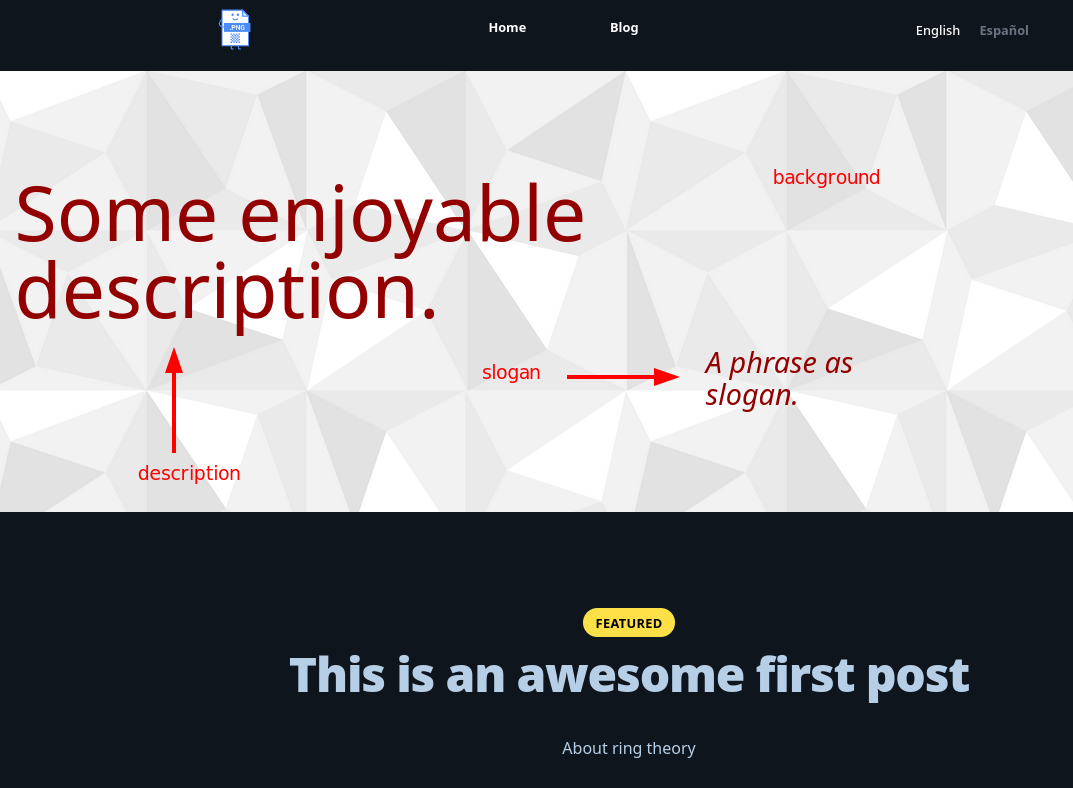
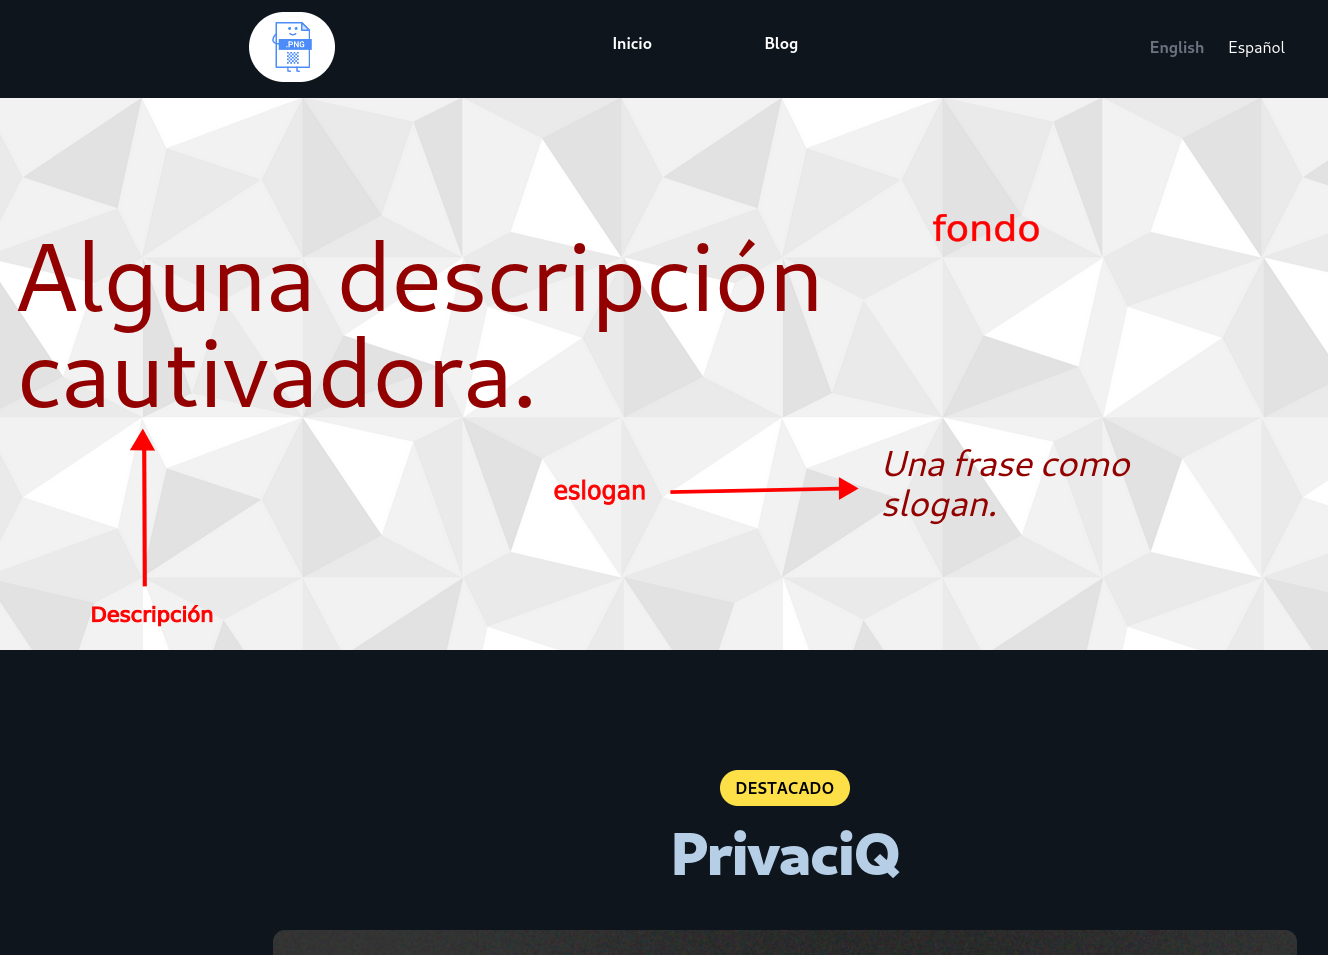
[CJ] - translated the README of the post template

diff --git a/DEV/README.md b/DEV/README.md
@@ -1,109 +1,107 @@
-# How to start with your Torified blog
+# Como empezar con el blog torificado
 
-The first thing to do with your new Torified blog is to add some custom configurations, but remember **DO NOT** put information that allows to identify to you. This template has the simplest content to do your blog completely anonymous, so you have to take care about what information you share on it.
+La primera cosa a hacer con su nuevo blog torificado es añadir algunas configuraciones, pero recuerde: **NO** ponga información que permitan identificarle. Esta plantilla tiene la configuración más simple para hacer a su blog completamente anónimo, así que tiene que tener cuidado con la información que comparte en este. 
 
-#### Warning
+## Advertencia
 
-For simplicity, we suggest to **ONLY** make changes on the folders and files we specify in these instructions.
+**Por simplicidad, sugerimos que sólo se hagan cambios en los directorios y archivos que especificamos en estas instrucciones.**
 
-## 1. Change logo
+**Advertencia: Tenga cuidado con el origen de la imagen que va a usar. En particular le recomendamos eliminar los metadatos de todos los archivos que suba al servidor**
+## 1. Cambiar logo
 
-To change the image logo you need to have an `.svg` file named `logo.svg` and stored in `/assets/images/`. Preferably this image must be a square image, if not it is going to  be deformed.
+Para cambiar el logo de la página se necesita tener un archivo en formato SVG llamado `logo.svg` que debe ser guardado en la carpeta `assets/images` del repositorio. Esta imagen debería ser cuadrada, pues de lo contrario se deformará al mostrarse.
 
-This change will modify the image that we show here.
+Este cambio va a modificar las imágenes que mostramos aquí:
 
-*Warning:*
-    please verify your logo is in SVG format.
+![Cambiar logo en el header](./images/change-logo-1.png)
 
-![Change logo](./images/change-logo.png)
+![Cambiar logo en el header](./images/change-logo-2.png)
 
-## 2. Change hero section in lading page
+## 2. Cambiar la sección *hero* en la página principal
 
-In order to change the hero section into the landing page, you have three elements that can be customized.
+En esta sección se pueden cambiar los siguientes elementos:
 
-1. **Description:** Go to the internationalization directory `_i18n` and find two files `en.yml` and `es.yml`. In each one of these, edit the tag `site.description` with your own description.
-
-2. **Slogan:** Go to the internationalization directory `_i18n` and find two files `en.yml` and `es.yml`. In each one of these, edit the tag `site.slogan` with your own slogan.
-
-Remember: do these two changes in both files to allow the page to show the text in both languages.
-
-3. **Background:** To change the background in the hero section, first you need have an image named `background-desktop.png` and replace with this the image with the same name into the directory `assets/images`.
-
-*Warning:*
-please verify your logo is format PNG, if it is JPG you can rename it as .png
+1. **Descripción:** Diríjase a `_i18n` que es el directorio de internacionalización, y encuentre los archivos `en.yml` y `es.yml`. En cada uno edite la etiqueta `site.description` con su propia descripción.
 
 
-![Change logo](./images/change-hero.png)
+2. **Eslogan:** Diríjase a `_i18n` que es el directorio de internacionalización, y encuentre los archivos `en.yml` y `es.yml`. En cada uno edite la etiqueta `site.slogan` con su propio eslogan.
 
-## 3. Change footer content
+**Recuerde: haga estos dos cambios en ambos archivos para que los cambios se vean reflejados en los dos idiomas**
 
-You can show your email and the corresponding GPG fingerprint (if you have them and you want to share them).
+3. **Imagen de fondo:** para cambiar el fondo de esta sección, primero necesita tener una imagen con el nombre `background-desktop.png` y copiela al directorio `assets/images`.
 
-#### Warning
-
-Be sure that the email you share is secure and anonymous. Use a service like [Riseup](https://riseup.net/) and similar.
-
-1. **Email:** Go to `_data/` directory and find the file `locations.yml`. In this file change the `name` under `- location: Email address` with your secure mail.
-
-2. **GPG fingerprint:** Go to `_data/` directory and find the file `locations.yml`. In this file change the `name` under `- location: GPG fingerprint` with the fingerprint.
-
-#### Note
-If you do not have a fingerprint delete the section `- location: GPG fingerprint`.
-
-# 4. Add posts to your blog
-
-When you have wroten a new post (in english or spanish) and you want to upload images, 
-you can use the template `post_template.md` in `/DEV` directory to do new posts.
+**Advertencia: La imagen seleccionada debe estar en formato PNG. En caso de que la imagen esté en formato JPG puede cambiar la extensión del archivo a `.png`.**
 
 
-If you want to do spanish and english versions of your post, the two files **must have the same file name** but each one must be stored in their respective directory. 
+![Cambio de la sección hero](./images/change-hero.png)
+
+## 3. Cambiar el contenido del *footer*
+
+Puede mostrar su dirección de correo electrónico y su correspondiente [*fingerprint* GPG](https://es.wikipedia.org/wiki/Huella_digital_de_clave_p%C3%BAblica#Creando_huellas_digitales_de_clave_p%C3%BAblica) (si los tiene y los desea compartir).
+
+**Advertencia: Asegurese de que el servicio de correo que usa es seguro y anónimo. Use un servicio como [Riseup](https://riseup.net/) y similares.**
+
+1. **Dirección de correo:** Diríjase al directorio `_data/` y encuentre el archivo `locations.yml`. En este archivo cambie el campo `name` bajo la línea `- location: email address` con la dirección de correo deseada.
+
+2. ***Fingerprint* GPG:** Diríjase al directorio `_data/` y encuentre el archivo `locations.yml`. En este archivo cambie el campo `name` bajo la línea `- location: GPG fingerprint` con el `fingerprint` GPG deseado.
+
+#### Nota
+
+Si no tiene un `fingerprint` GPG borre la línea `- location: GPG fingerprint` y las que están debajo de ella.
+
+# 4. Añadir posts al blog
+
+Cuando usted haya escrito unA nueva entrada (en inglés o español) y quiera subir imágenes, puede usar la plantilla `post_template.md` ubicada en el directorio `/DEV`.
+
+Si quiere versiones en español e inglés de sus entradas, los dos archivos **deben tener el mismo nombre**, pero cada uno de ellos debe ser guardado en su propio directorio.
+
+Para la versión en español use el directorio `/_i18n/es/_post` y para la versión en inglés `/_i18n/en/_post`.
+
+## Nombrar los archivos de las entradas correctamente
+
+El nombre del archivo de su entrada **debe** usar la siguiente sintaxis:
+
+    yyyy-mm-dd-titulo-de-su-entrada.md
+
+No se puede reemplazar `-` con ningún otro símbolo y en el título de su entrada reemplace los espacios con `-`.
+
+Por ejemplo: _titulo de su entrada_ deberia ser `titulo-de-su-entrada`.
 
 
-For the spanish version use the directory is `/_i18n/es/_post` and for the english version use the directory `/_i18n/en/_post`.
+Recuerde que el nombre del archivo de su entrada no es el mismo que el título de esta.
 
-## How to name correctly yours post files
+# Ejemplo
 
+Colocamos los siguientes archivos para las entradas en inglés y español en los directorios que especificamos.
 
-The name of your post fine **MUST** use this sintaxis **`yyyy-mm-dd-title-of-your-post.md`**. You can't replace `-` with any
-other symbol, and in the title of your post, replace spaces with `-`.
+## Español
 
-For example:  _title of your post_ should be `title-of-your-post`.
+![Español](./images/example_es.png)
 
-Remember the name of the post file is not the same as the title of the post.
+## Inglés
 
-#### Example
+![Inglés](./images/example_en.png)
 
-We located the next files for the post in English and Spanish located in the directories we specify.
+## Directorio de imágenes
 
-##### Spanish
-
-![Spanish](./images/example_es.png)
-
-##### English
-
-![English](./images/example_en.png)
-
-And we save the images as follows
-
-##### Images folder
+Guardamos las imagenes de la siguiente manera.
 
 ![Images folder](./images/example_images.png)
 
-You will see this as follows.
+Estos cambios se verán de la siguiente manera:
 
-##### Featured
+### Destacados
 
-![Featured](./images/example_featured.png)
+![Destacados](./images/example_featured.png)
 
-##### Blog Spanish visualization
+### Visualización del blog en español
 
-![Blog Spanish](./images/example_post_es.png)
+![Blog en español](./images/example_post_es.png)
 
-##### Blog English visualization
+### Visualización del blog en inglés
 
-![Blog English](./images/example_post_en.png)
+![Blog en inglés](./images/example_post_en.png)
 
-##### Blog
+### Entrada del blog
 
-![Blog](./images/example_post.png)
-
+![Entrada del blog](./images/example_post.png)
